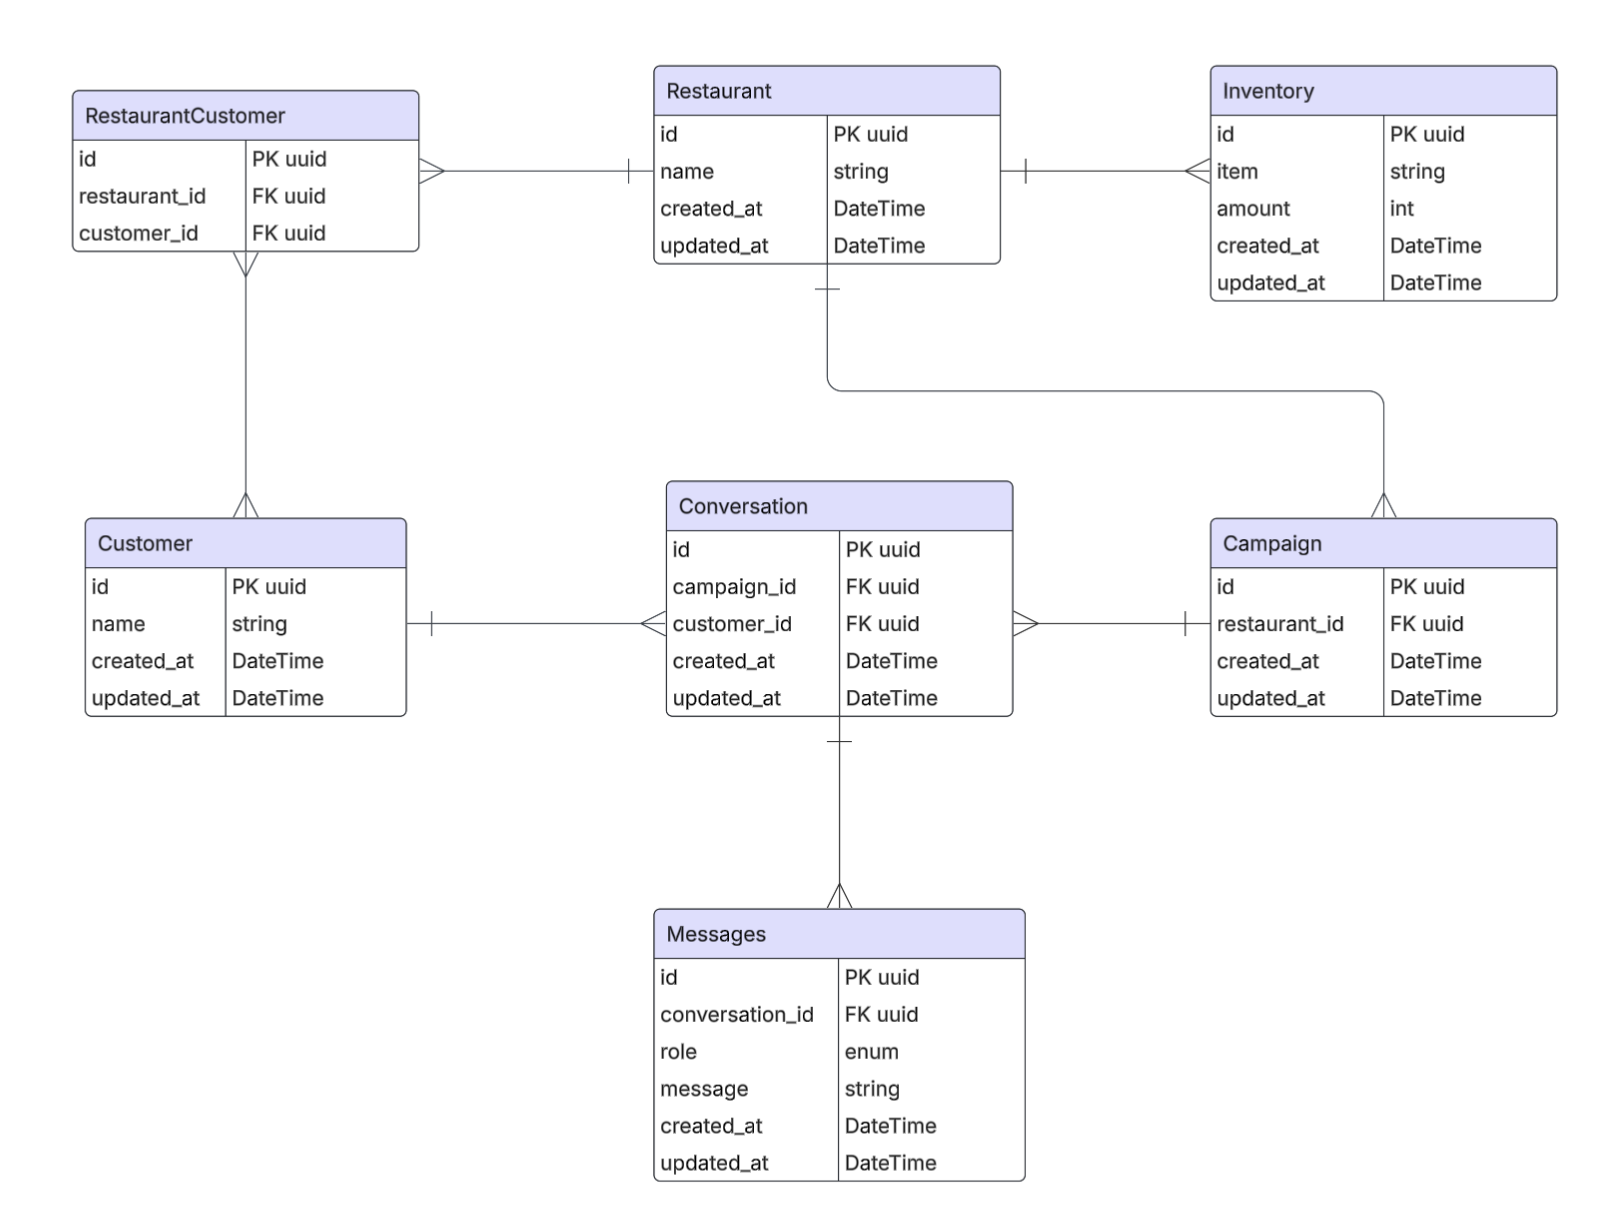
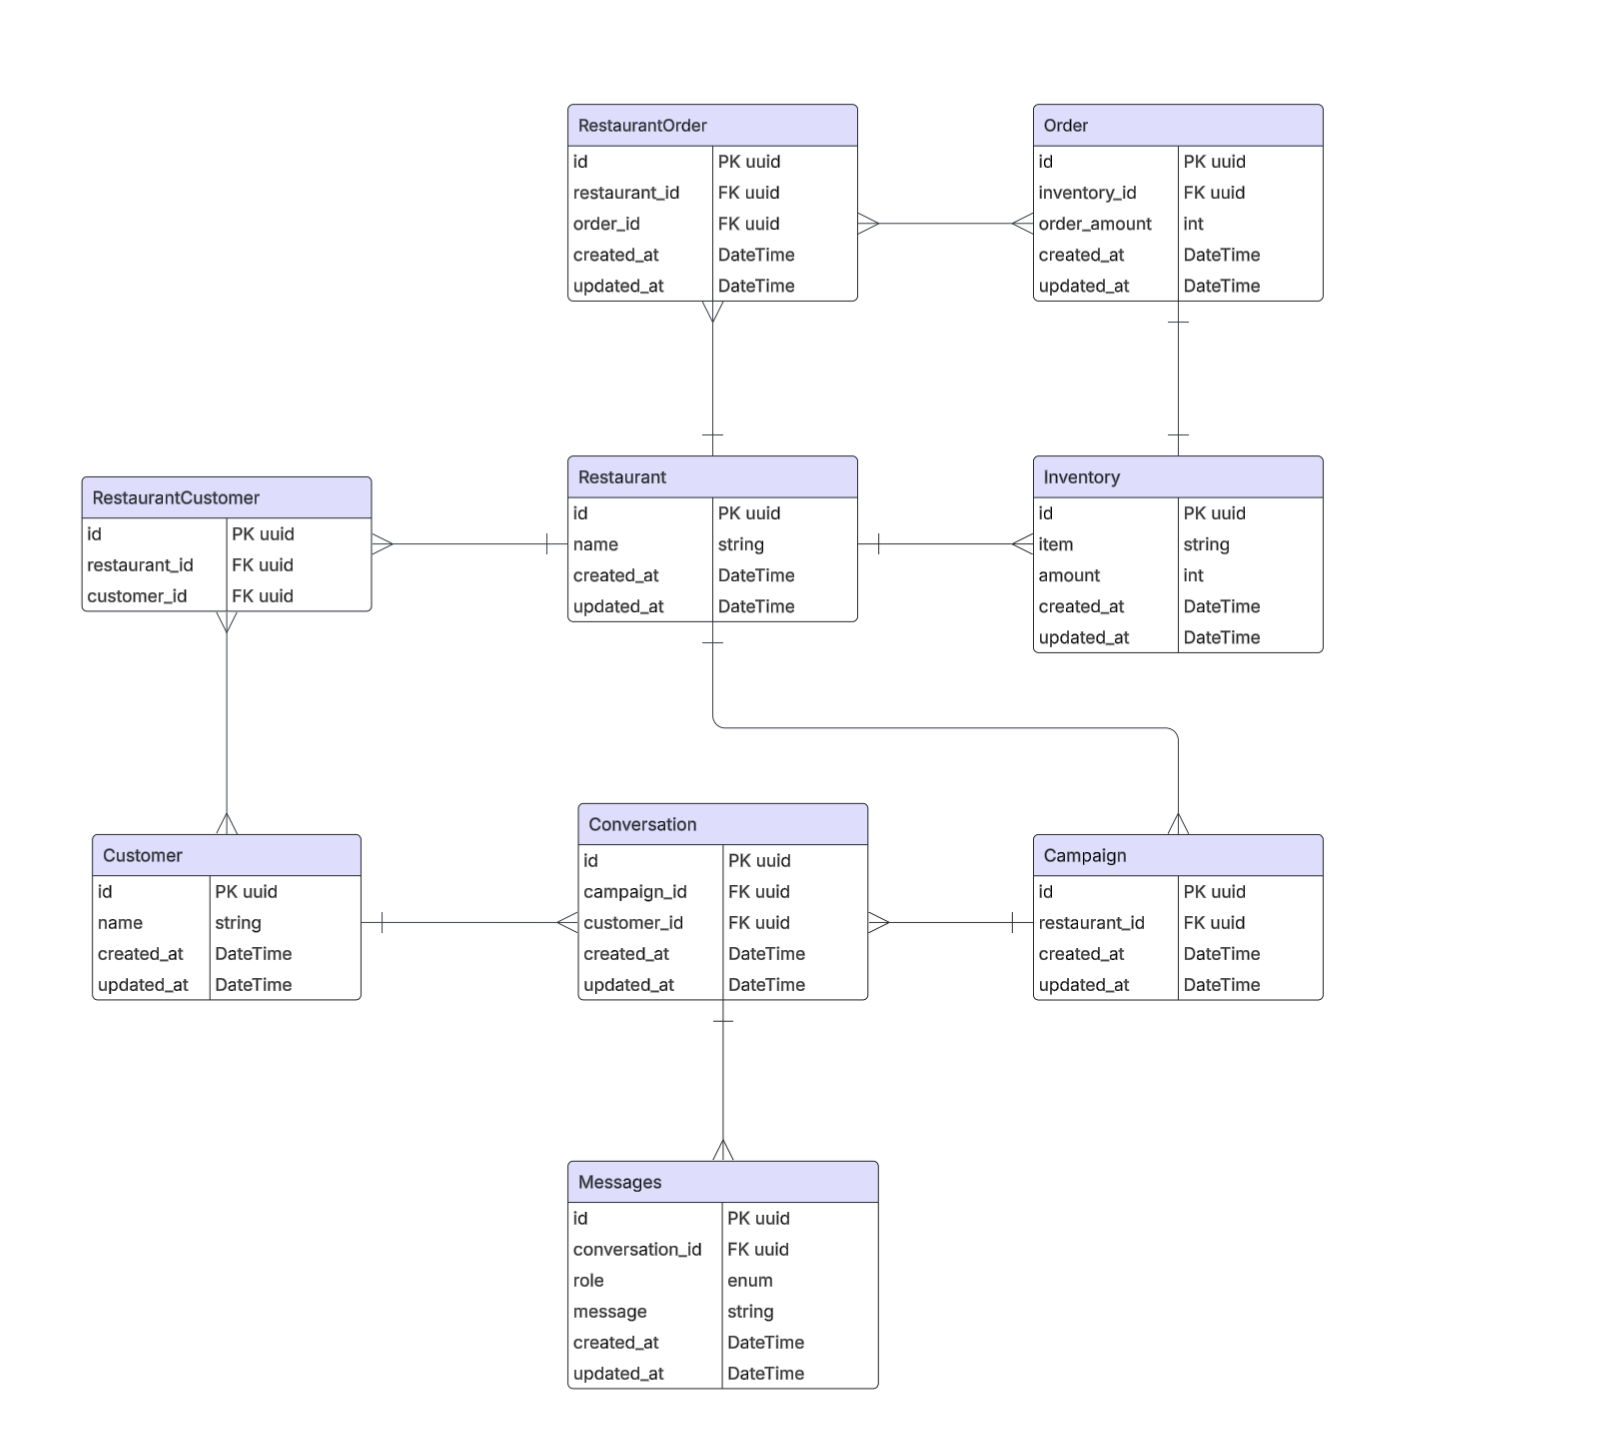
update erd and readme for backend

diff --git a/backend/README.md b/backend/README.md
@@ -12,6 +12,7 @@ A powerful REST API backend for the Future-Proof restaurant inventory prediction
   - [Manual Installation](#manual-installation)
 - [Database](#database)
   - [Models](#models)
+  - [Entity Relationship Diagram (ERD)](#entity-relationship-diagram-erd)
   - [Migrations](#migrations)
   - [Seeding](#seeding)
 - [API Endpoints](#api-endpoints)
@@ -142,6 +143,20 @@ The application uses the following key database models:
 - **Conversation**: Conversations for campaigns
 - **Messages**: Messages in conversations
 - **Order**: Orders for inventory items
+
+### Entity Relationship Diagram (ERD)
+
+![Entity Relationship Diagram](app/db/erd.png)
+
+*For a clearer view, see the ERD file in the db directory*
+
+This diagram illustrates the relationships between the main entities in the system:
+
+- A **Restaurant** has many **Inventory** items and **Campaigns**
+- A **Campaign** has many **Conversations** with **Customers**
+- Each **Conversation** contains **Messages**
+- **Orders** are placed for **Inventory** items
+- **RestaurantCustomer** and **RestaurantOrder** are junction tables that manage many-to-many relationships
 
 ### Migrations
 
